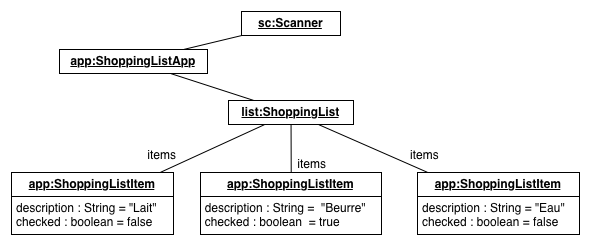
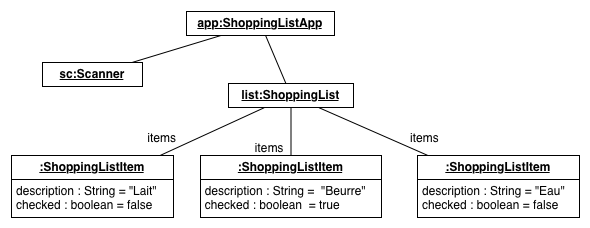
Correction diagramme objets ShoppingListApp

diff --git a/_collection_enonces/tp1.md b/_collection_enonces/tp1.md
@@ -446,7 +446,7 @@ Fermeture de l'application
 
 * La comparaison de chaînes de caractères doit se faire avec la méthode `equals` plutôt qu'avec l'opérateur `==`. En effet ce dernier compare les références (en quelques sorte les adresses en mémoire) alors que la méthode `equals` compare le contenu des chaînes de caractères
 
-* A la fin de l'exécution de l'exemple précédent, on a le diagramme d'objets suivant (qui représente les objets créés en mémoire, leurs associations, ainsi que la valeur de leurs champs principaux). Sur cette représentation chaque objet est identifié de la manière suivante : `nomObjet:ClasseObjet`. On peut noter sur l'association le nom de la variable d'instance par laquelle se fait le lien entre les objets.
+* A la fin de l'exécution de l'exemple précédent, on a le diagramme d'objets suivant (qui représente les objets créés en mémoire, leurs associations, ainsi que la valeur de leurs champs principaux). Sur cette représentation chaque objet est identifié de la manière suivante : `nomObjet:ClasseObjet`. On peut noter sur l'association le nom de la variable d'instance par laquelle se fait le lien entre les objets. Quand les objets sont stockés dans une liste on ne dispose pas de variable ayant un nom pour accéder à un élément (on note alors `:ClasseObjet`et on fait apparaître plusieurs fois le nom de la variable référençant la collection à côté des associations).
 
 ![](/img/ShoppingListObjectDiagram.png)
 
